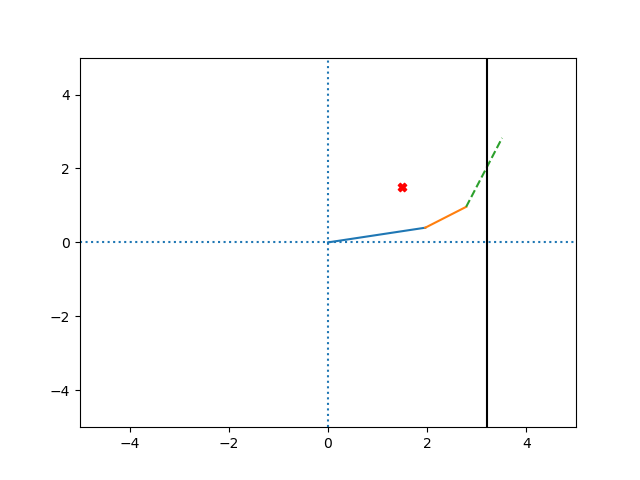
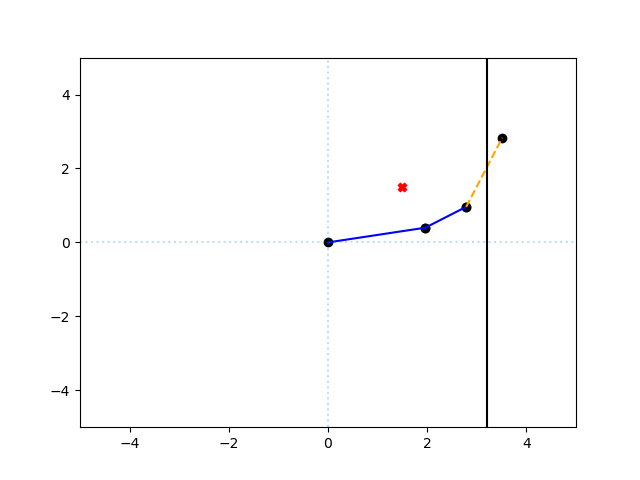
Thursday 02.24.2022

Changed region(s): [[0.5, 0.4375, 0.7188, 0.5312], [0.75, 0.2812, 0.8125, 0.3438], [0.7188, 0.375, 0.75, 0.4375]]

diff --git a/robot_arm.py b/robot_arm.py
@@ -103,16 +103,19 @@ class RobotArm:
                 tf = this_link.check_wall_collision(wall)
                 x = [this_link.start[0], this_link.end[0]]
                 y = [this_link.start[1], this_link.end[1]]
+                plt.scatter(x, y, color='black')
                 if tf:
-                    plt.plot(x, y, '--')
+                    plt.plot(x, y, '--', color='orange')
                 else:
-                    plt.plot(x, y, '-')
+                    plt.plot(x, y, '-', color='blue')
 
         """Plot wall(s)"""
         for w, wall in enumerate(walls):
             plt.vlines(wall.loc, -sum(self.arm_lengths), sum(self.arm_lengths), 'k')
-            plt.vlines(0, -sum(self.arm_lengths), sum(self.arm_lengths), linestyles='dotted')
-            plt.hlines(0, -sum(self.arm_lengths), sum(self.arm_lengths), linestyles='dotted')
+            plt.vlines(0, -sum(self.arm_lengths), sum(self.arm_lengths), linestyles='dotted', alpha=0.25)
+            plt.hlines(0, -sum(self.arm_lengths), sum(self.arm_lengths), linestyles='dotted', alpha=0.25)
+
+        """Saving file"""
         plt.savefig(filename)
 
 
